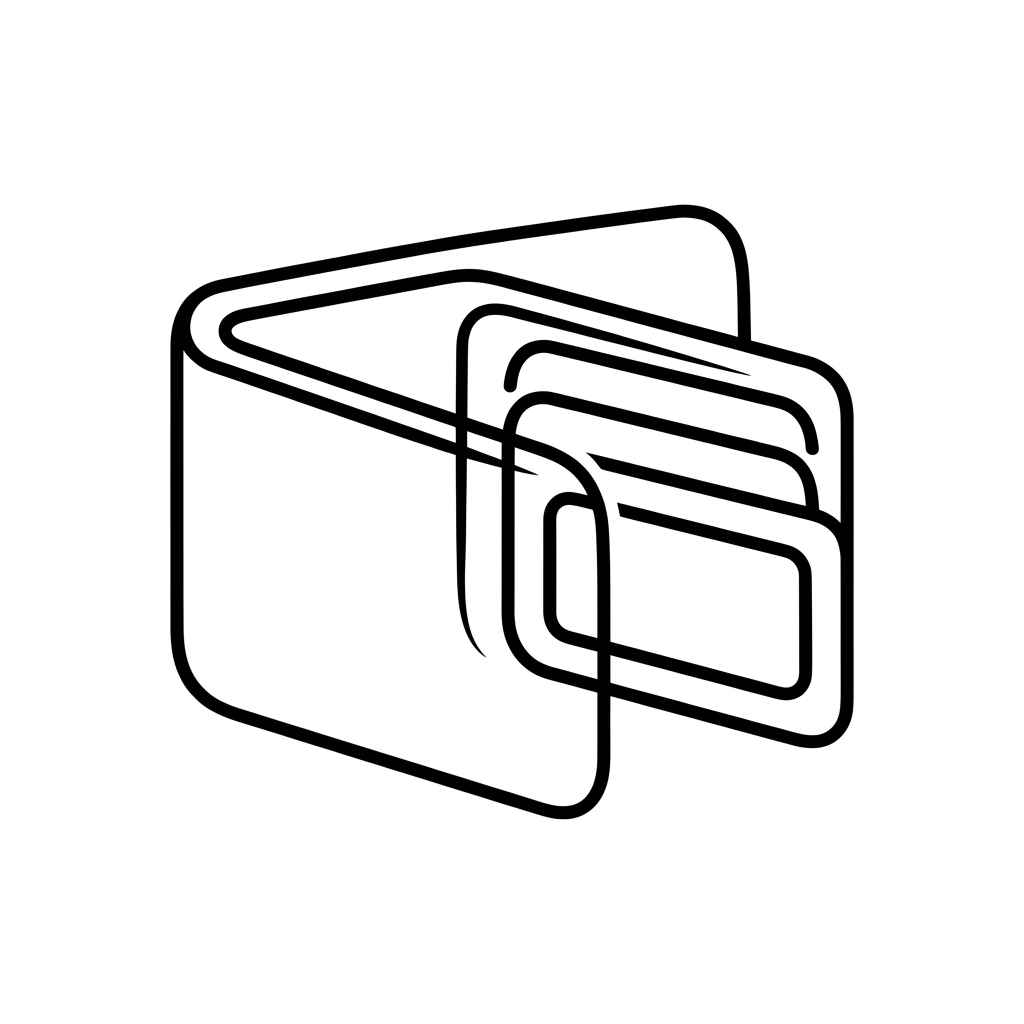
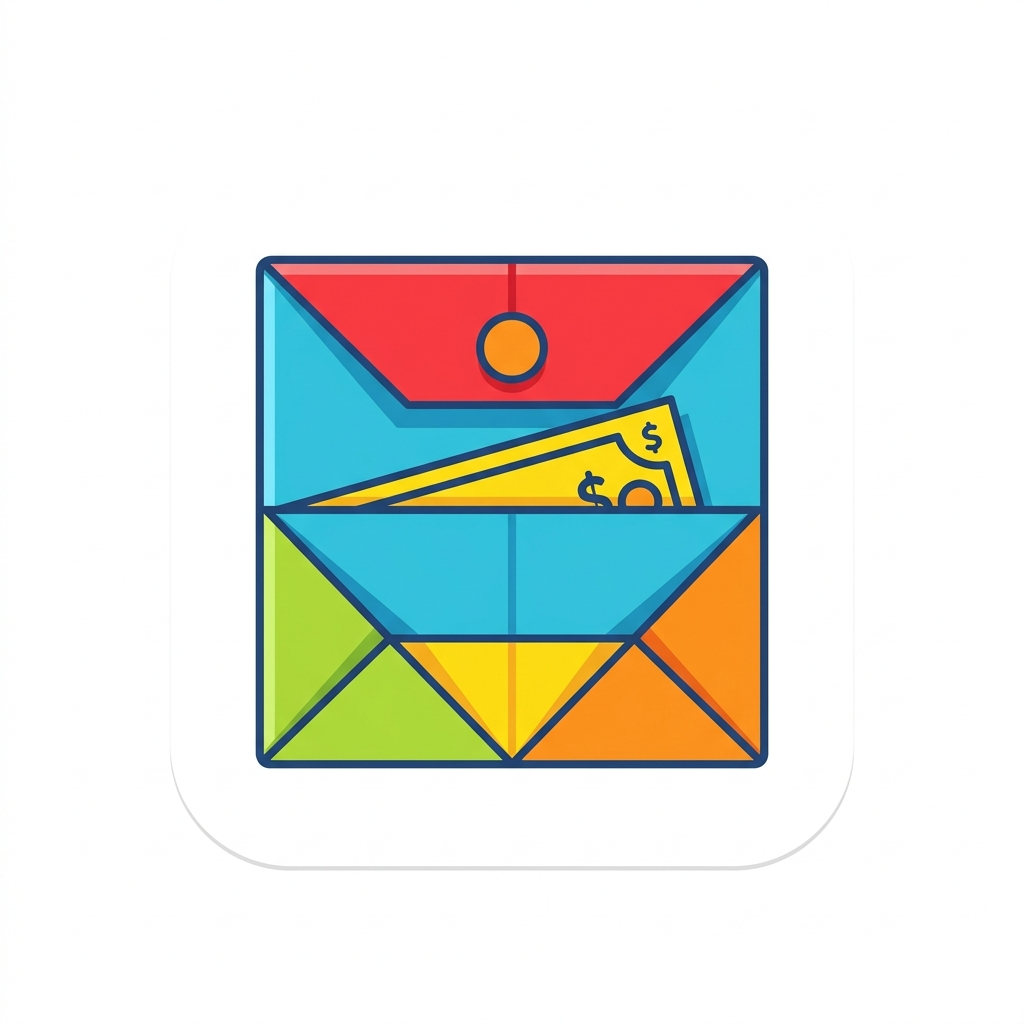
origami-wallet-alpha-3: Scale down UI components for mobile

diff --git a/src/style.css b/src/style.css
@@ -32,7 +32,7 @@
   --shadow-lg: 6px 6px 0px rgba(0,0,0,0.4);
 
   /* Layout */
-  --nav-height: 80px; /* Taller for One UI feel */
+  --nav-height: 64px; /* Scaled down for mobile */
   --safe-area-inset-bottom: env(safe-area-inset-bottom, 0px);
 }
 
@@ -92,7 +92,7 @@ h1, h2, h3, h4, h5, h6 {
   display: flex;
   justify-content: space-between;
   align-items: center;
-  padding: 24px 20px;
+  padding: 16px 20px;
   position: sticky;
   top: 0;
   background: var(--bg-color);
@@ -114,8 +114,8 @@ h1, h2, h3, h4, h5, h6 {
   background: var(--bg-surface);
   border: var(--border-width) solid var(--border-color);
   border-radius: var(--radius-lg);
-  padding: 20px;
-  margin-bottom: 24px;
+  padding: 16px;
+  margin-bottom: 20px;
   box-shadow: var(--shadow-md);
   transition: transform 0.2s cubic-bezier(0.34, 1.56, 0.64, 1), box-shadow 0.2s cubic-bezier(0.34, 1.56, 0.64, 1);
 }
@@ -175,8 +175,8 @@ h1, h2, h3, h4, h5, h6 {
   color: var(--text-primary);
   border: var(--border-width) solid var(--border-color);
   border-radius: var(--radius-pill);
-  padding: 12px 24px;
-  font-size: 1rem;
+  padding: 10px 16px;
+  font-size: 0.9rem;
   font-weight: 600;
   font-family: inherit;
   cursor: pointer;
@@ -196,18 +196,18 @@ h1, h2, h3, h4, h5, h6 {
 }
 .btn-fab {
   position: absolute;
-  top: -24px;
+  top: -20px;
   left: 50%;
   transform: translateX(-50%);
-  width: 64px;
-  height: 64px;
+  width: 52px;
+  height: 52px;
   border-radius: var(--radius-pill);
   background: var(--accent-primary);
   color: var(--bg-color);
   display: flex;
   align-items: center;
   justify-content: center;
-  font-size: 1.8rem;
+  font-size: 1.5rem;
   box-shadow: var(--shadow-md);
   border: var(--border-width) solid var(--border-color);
   cursor: pointer;
@@ -229,7 +229,7 @@ h1, h2, h3, h4, h5, h6 {
   display: flex;
   align-items: center;
   justify-content: space-between;
-  padding: 16px;
+  padding: 12px 16px;
   background: var(--bg-surface);
   border-radius: var(--radius-md);
   border: var(--border-width) solid var(--border-color);
@@ -245,15 +245,15 @@ h1, h2, h3, h4, h5, h6 {
   box-shadow: none;
 }
 .list-item-icon {
-  width: 48px;
-  height: 48px;
+  width: 40px;
+  height: 40px;
   border-radius: var(--radius-md);
   background: var(--bg-surface) !important;
   display: flex;
   align-items: center;
   justify-content: center;
-  font-size: 1.6rem;
-  margin-right: 16px;
+  font-size: 1.3rem;
+  margin-right: 12px;
   border: var(--border-width) solid var(--border-color);
   box-shadow: 
     inset 0 0 0 3px var(--bg-surface),
@@ -284,24 +284,24 @@ h1, h2, h3, h4, h5, h6 {
 
 /* Forms */
 .form-group {
-  margin-bottom: 20px;
+  margin-bottom: 16px;
 }
 .form-group label {
   display: block;
-  font-size: 0.95rem;
+  font-size: 0.85rem;
   font-weight: 600;
   color: var(--text-primary);
-  margin-bottom: 8px;
+  margin-bottom: 6px;
 }
 .form-control {
   width: 100%;
   background: var(--bg-elevated);
   border: var(--border-width) solid var(--border-color);
   color: var(--text-primary);
-  padding: 16px 20px;
+  padding: 12px 16px;
   border-radius: var(--radius-lg);
   font-family: inherit;
-  font-size: 1rem;
+  font-size: 0.95rem;
   outline: none;
   box-shadow: inset 2px 2px 0px rgba(0,0,0,0.1);
   transition: border-color 0.2s;
@@ -340,7 +340,7 @@ h1, h2, h3, h4, h5, h6 {
   height: 100%;
 }
 .nav-item i {
-  font-size: 1.5rem;
+  font-size: 1.25rem;
 }
 .nav-item.active {
   color: var(--accent-primary);
@@ -370,10 +370,10 @@ h1, h2, h3, h4, h5, h6 {
 .modal-content {
   background: var(--bg-surface);
   border-radius: var(--radius-xl) var(--radius-xl) 0 0;
-  padding: 24px;
+  padding: 20px;
   transform: translateY(100%);
   transition: transform 0.3s cubic-bezier(0.175, 0.885, 0.32, 1);
-  padding-bottom: calc(24px + var(--safe-area-inset-bottom));
+  padding-bottom: calc(20px + var(--safe-area-inset-bottom));
 }
 .modal-overlay.active .modal-content {
   transform: translateY(0);

diff --git a/src/main.ts b/src/main.ts
@@ -644,19 +644,19 @@ async function renderDashboard(container: HTMLElement): Promise<void> {
     </div>
     
     <!-- Hub Quick Links -->
-    <div style="display: grid; grid-template-columns: 1fr 1fr; gap: 16px; margin-top: 24px;">
-      <a href="#/budget" class="card" style="margin: 0; padding: 12px; text-decoration: none; display: flex; align-items: center; gap: 12px;">
-        <div style="background: var(--accent-primary); color: var(--bg-color); border-radius: var(--radius-md); width: 40px; height: 40px; display: flex; align-items: center; justify-content: center; font-size: 1.5rem; border: var(--border-width) solid var(--border-color); box-shadow: var(--shadow-sm); flex-shrink: 0;">
-          <i class="ph-fill ph-chart-pie-slice"></i>
+    <div class="flex" style="gap: 12px; margin-bottom: 24px;">
+      <button class="btn" onclick="window.location.hash='#/budget'" style="flex: 1; padding: 12px; border-radius: var(--radius-lg); flex-direction: row; gap: 8px;">
+        <div style="background: var(--accent-primary); border: var(--border-width) solid var(--border-color); border-radius: 50%; width: 32px; height: 32px; display: flex; align-items: center; justify-content: center; color: var(--bg-color);">
+          <i class="ph-fill ph-chart-pie-slice" style="font-size: 1.25rem;"></i>
         </div>
-        <span style="font-weight: 600; color: var(--text-primary); font-size: 0.95rem;">Presupuesto</span>
-      </a>
-      <a href="#/investments" class="card" style="margin: 0; padding: 12px; text-decoration: none; display: flex; align-items: center; gap: 12px;">
-        <div style="background: var(--accent-blue); color: var(--bg-color); border-radius: var(--radius-md); width: 40px; height: 40px; display: flex; align-items: center; justify-content: center; font-size: 1.5rem; border: var(--border-width) solid var(--border-color); box-shadow: var(--shadow-sm); flex-shrink: 0;">
-          <i class="ph-fill ph-trend-up"></i>
+        <span style="font-weight: 600; font-size: 0.9rem;">Presupuesto</span>
+      </button>
+      <button class="btn" onclick="window.location.hash='#/investments'" style="flex: 1; padding: 12px; border-radius: var(--radius-lg); flex-direction: row; gap: 8px;">
+        <div style="background: var(--accent-blue); border: var(--border-width) solid var(--border-color); border-radius: 50%; width: 32px; height: 32px; display: flex; align-items: center; justify-content: center; color: var(--bg-color);">
+          <i class="ph-bold ph-trend-up" style="font-size: 1.25rem;"></i>
         </div>
-        <span style="font-weight: 600; color: var(--text-primary); font-size: 0.95rem;">Inversiones</span>
-      </a>
+        <span style="font-weight: 600; font-size: 0.9rem;">Inversiones</span>
+      </button>
     </div>
   `;
 
@@ -721,21 +721,21 @@ async function renderTransactions(container: HTMLElement): Promise<void> {
   const yesterday = yesterdayDate.toISOString().split('T')[0];
 
   container.innerHTML = `
-    <div class="flex justify-between align-center mb-4">
-      <h2>Historial de Transacciones</h2>
-      <div style="display: flex; gap: 8px;">
-        <button class="btn" id="btn-scan" style="padding: 6px 12px; font-size: 0.85rem; background: var(--bg-elevated); border: 1px solid var(--border-color); color: var(--text-primary);">
-          <i class="ph ph-camera"></i> Escanear
+    <div class="header" style="padding: 16px 20px;">
+      <h1 style="font-size: 1.4rem;">Historial de Transacciones</h1>
+      <div style="display: flex; gap: 8px; flex-wrap: wrap; margin-bottom: 16px;">
+        <button class="btn" id="btn-scan" style="padding: 6px 10px; font-size: 0.8rem; background: var(--bg-elevated); border: 1px solid var(--border-color); color: var(--text-primary);" title="Escanear Ticket">
+          <i class="ph-fill ph-camera"></i> Escanear
         </button>
-        <button class="btn" id="btn-export-backup" style="padding: 6px 12px; font-size: 0.85rem; background: var(--accent-primary); border: 1px solid var(--border-color); color: var(--bg-color);" title="Exportar Respaldo">
+        <button class="btn" id="btn-export-backup" style="padding: 6px 10px; font-size: 0.8rem; background: var(--accent-primary); border: 1px solid var(--border-color); color: var(--bg-color);" title="Exportar Respaldo">
           <i class="ph-fill ph-export"></i> Respaldo
         </button>
-        <button class="btn" id="btn-import-backup" style="padding: 6px 12px; font-size: 0.85rem; background: var(--bg-elevated); border: 1px solid var(--border-color); color: var(--text-primary);" title="Importar Respaldo">
+        <button class="btn" id="btn-import-backup" style="padding: 6px 10px; font-size: 0.8rem; background: var(--bg-elevated); border: 1px solid var(--border-color); color: var(--text-primary);" title="Importar Respaldo">
           <i class="ph-fill ph-download-simple"></i> Restablecer
         </button>
       </div>
     </div>
-    ${txs.length === 0 ? '<div class="card text-center" style="padding: 40px; color: var(--text-secondary)">No se encontraron transacciones.</div>' : ''}
+    ${txs.length === 0 ? '<div class="card text-center" style="padding: 32px 16px; color: var(--text-secondary)">No se encontraron transacciones.</div>' : ''}
     <div class="list pb-4">
       ${sortedDates.map(date => {
         let displayDate = date;